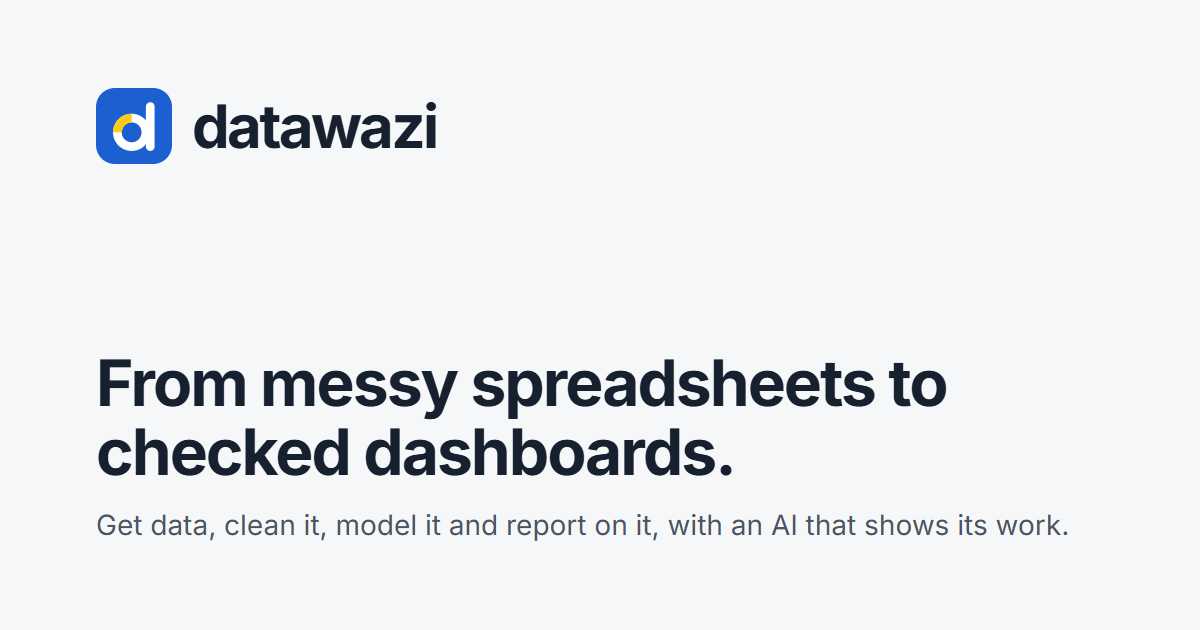
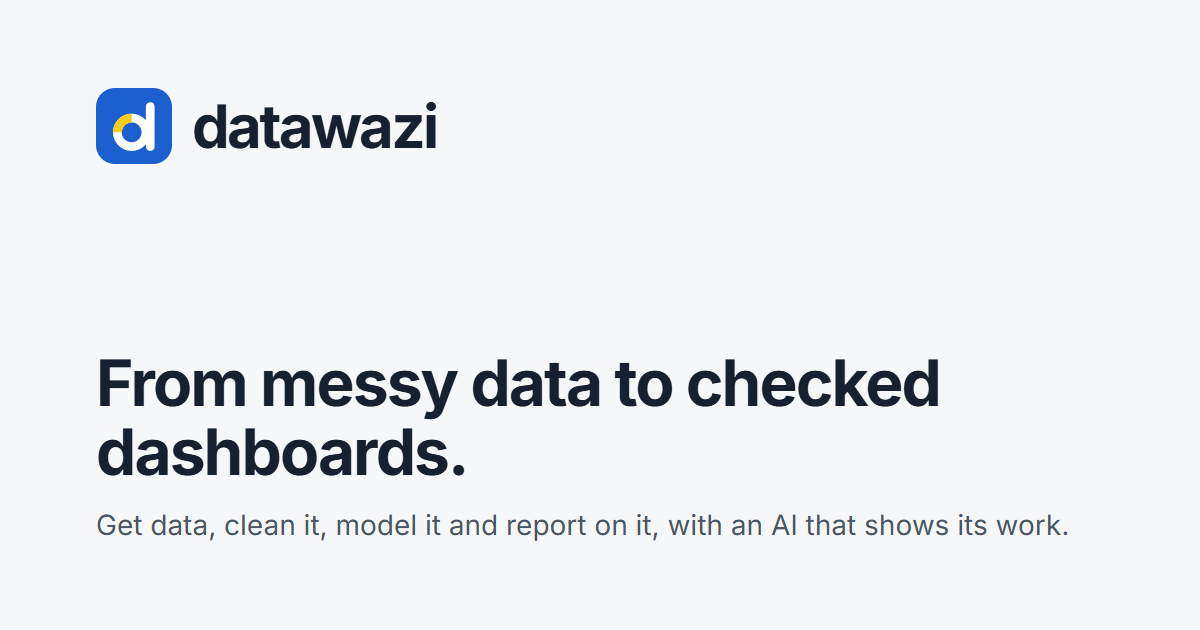
M15: say "data", not "spreadsheets", on the public pages
The landing page, sign-in panel, page description, manifest and social card
talk about your data rather than spreadsheets or files, since more source
types are coming: "From messy data to checked dashboards", "Try it with your
data", and the Get data step says more sources are on the way.

Changed region(s): [[0.0925, 0.573, 0.8017, 0.754]]

diff --git a/frontend/src/pages/Landing.tsx b/frontend/src/pages/Landing.tsx
@@ -130,7 +130,7 @@ function CleaningDemo() {
 }
 
 const HOW = [
-  { title: "Get data", text: "Upload CSV or Excel, link a shared OneDrive, SharePoint or Google Drive file, or bring a Power BI file." },
+  { title: "Get data", text: "Upload CSV or Excel, link OneDrive, SharePoint or Google Drive, or bring a Power BI model. More sources are on the way." },
   { title: "Clean", text: "The AI fixes dates, prices, blanks and repeats. You see each step and approve it." },
   { title: "Model", text: "Tables are related, a date table is added and measures are written, with every formula shown." },
   { title: "Report", text: "A dashboard you can edit, ask questions of in plain language, share and get by email each week." },
@@ -148,7 +148,7 @@ const PLANS = [
 const FAQ = [
   {
     q: "What does the AI see of my data?",
-    a: "Column summaries, up to 5 sample rows per table and the results of the queries it runs. Your full file stays in your workspace, and the AI never sees rows a viewer isn't allowed to.",
+    a: "Column summaries, up to 5 sample rows per table and the results of the queries it runs. Your full data stays in your workspace, and the AI never sees rows a viewer isn't allowed to.",
   },
   {
     q: "Can I check the numbers?",
@@ -188,17 +188,17 @@ export function Landing() {
         </nav>
         <div className="lp-header-actions">
           <Link to="/sign-in" className="lp-link">Sign in</Link>
-          <Link to="/sign-in" className="lp-btn lp-btn-primary">Try it with your file</Link>
+          <Link to="/sign-in" className="lp-btn lp-btn-primary">Try it with your data</Link>
         </div>
       </header>
 
       <main id="lp-main">
         <section className="lp-hero">
           <div className="lp-hero-copy">
-            <h1>From messy spreadsheets to checked dashboards.</h1>
-            <p>Drop in a file. The AI cleans it, models it and builds the dashboard, and shows you every change to approve.</p>
+            <h1>From messy data to checked dashboards.</h1>
+            <p>Bring in your data. The AI cleans it, models it and builds the dashboard, and shows you every change to approve.</p>
             <div className="lp-ctas">
-              <Link to="/sign-in" className="lp-btn lp-btn-primary lp-btn-lg">Try it with your file</Link>
+              <Link to="/sign-in" className="lp-btn lp-btn-primary lp-btn-lg">Try it with your data</Link>
               <a href="#how" className="lp-btn lp-btn-ghost lp-btn-lg">See how it works</a>
             </div>
           </div>
@@ -239,7 +239,7 @@ export function Landing() {
             <div className="lp-trust-cell">
               <Eye size={22} aria-hidden="true" />
               <h3>You know what the AI sees</h3>
-              <p>Column summaries and a few sample rows, never your whole file.</p>
+              <p>Column summaries and a few sample rows, never your whole dataset.</p>
             </div>
             <div className="lp-trust-cell">
               <ShieldCheck size={22} aria-hidden="true" />
@@ -310,8 +310,8 @@ export function Landing() {
         </section>
 
         <section className="lp-final">
-          <h2>See your own file as a dashboard.</h2>
-          <Link to="/sign-in" className="lp-btn lp-btn-primary lp-btn-lg">Try it with your file</Link>
+          <h2>See your own data as a dashboard.</h2>
+          <Link to="/sign-in" className="lp-btn lp-btn-primary lp-btn-lg">Try it with your data</Link>
         </section>
       </main>
 

diff --git a/frontend/index.html b/frontend/index.html
@@ -4,7 +4,7 @@
     <meta charset="UTF-8" />
     <meta name="viewport" content="width=device-width, initial-scale=1.0" />
     <title>datawazi</title>
-    <meta name="description" content="From messy spreadsheets to checked dashboards. Get data, clean it, model it and report on it, with an AI that shows its work." />
+    <meta name="description" content="From messy data to checked dashboards. Get data, clean it, model it and report on it, with an AI that shows its work." />
     <link rel="icon" href="/favicon.svg" type="image/svg+xml" />
     <link rel="icon" href="/favicon-32.png" sizes="32x32" type="image/png" />
     <link rel="apple-touch-icon" href="/apple-touch-icon.png" />
@@ -13,7 +13,7 @@
     <!-- Social card: link previews need an absolute image address, so these change to the domain at M18. -->
     <meta property="og:type" content="website" />
     <meta property="og:title" content="datawazi" />
-    <meta property="og:description" content="From messy spreadsheets to checked dashboards." />
+    <meta property="og:description" content="From messy data to checked dashboards." />
     <meta property="og:image" content="/social-card.png" />
     <meta property="og:image:width" content="1200" />
     <meta property="og:image:height" content="630" />

diff --git a/frontend/src/components/account.tsx b/frontend/src/components/account.tsx
@@ -244,7 +244,7 @@ function SignInAside() {
     <aside className="signin-aside">
       <div className="signin-aside-text">
         <h2>Clean data. Checked numbers.</h2>
-        <p>Your spreadsheets become dashboards your team can trust.</p>
+        <p>Your data becomes dashboards your team can trust.</p>
       </div>
       <SignInChart />
     </aside>

diff --git a/frontend/brand/render.py b/frontend/brand/render.py
@@ -28,7 +28,7 @@ SOCIAL = f"""{FONTS}
   </div>
   <div>
     <div style="font-size:64px;font-weight:700;letter-spacing:-0.03em;line-height:1.08;max-width:900px">
-      From messy spreadsheets to checked dashboards.</div>
+      From messy data to checked dashboards.</div>
     <div style="margin-top:22px;font-size:28px;color:#4b5563;max-width:1008px">
       Get data, clean it, model it and report on it, with an AI that shows its work.</div>
   </div>
